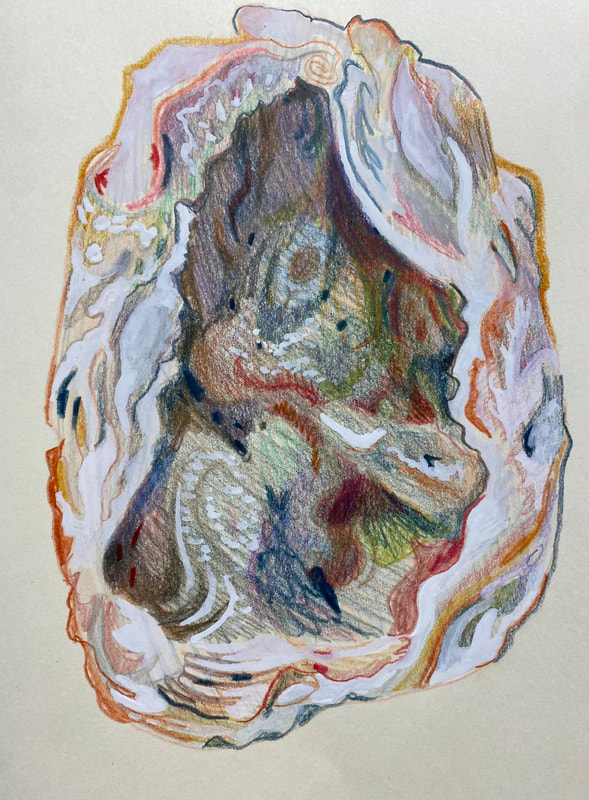
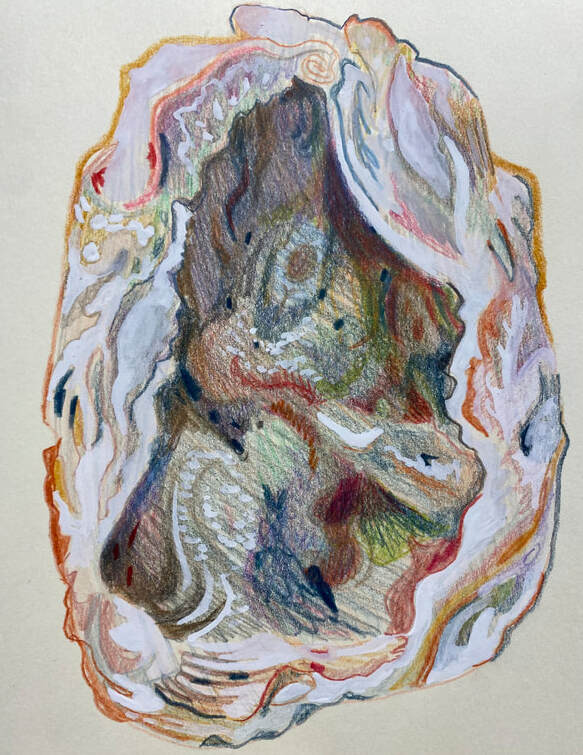
colored pencil

diff --git a/drawing.html b/drawing.html
@@ -21,20 +21,20 @@
       <div class="collection-grid" id="grid">
         <article class="work" data-medium="Drawing" data-title="Fishy" data-year="2023" tabindex="0">
           <a class="thumb" href="#" aria-label="Open Fishy, Painting, 2023">
-            <img src="assets/drawing/figure/clark.jpeg" alt="Clark" loading="lazy" />
+            <img src="assets/drawing/still-life/oyster.jpeg" alt="oyster" loading="lazy" />
           </a>
           <div class="meta">
-            <h3 class="title">Portrait</h3>
-            <p class="sub"> Pencil on Paper • 2023</p>
+            <h3 class="title">Oyster</h3>
+            <p class="sub"> Colored Pencil on Paper • 2023</p>
           </div>
         </article>
   
-        <article class="work" data-medium="art" data-title="Meerio" data-year="2023" tabindex="0">
-          <a class="thumb" href="#" aria-label="Open Meerio, Painting, 2022">
-            <img src="assets/drawing/figure/ponytail.jpeg" alt="Clark" loading="lazy" />
+        <article class="work" data-medium="art" data-title="Olivia" data-year="2023" tabindex="0">
+          <a class="thumb" href="#" aria-label="Olivia, Painting, 2022">
+            <img src="assets/drawing/figure/olivia.jpeg" alt="Clark" loading="lazy" />
           </a>
           <div class="meta">
-            <h3 class="title">Ponytail</h3>
+            <h3 class="title">Olivia</h3>
             <p class="sub"> Pencil on Paper • 2023</p>
           </div>
         </article>
